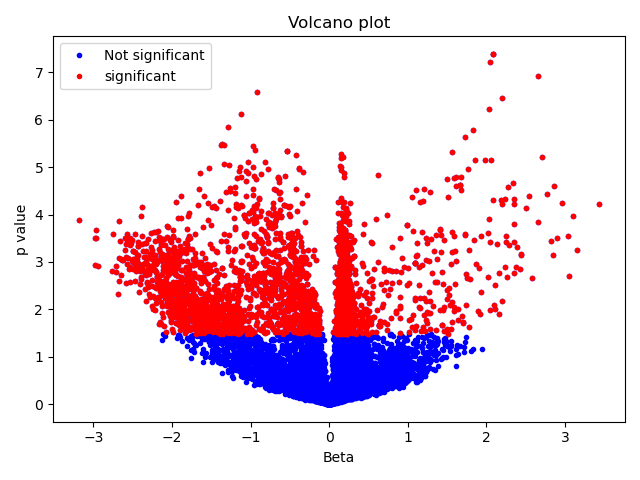
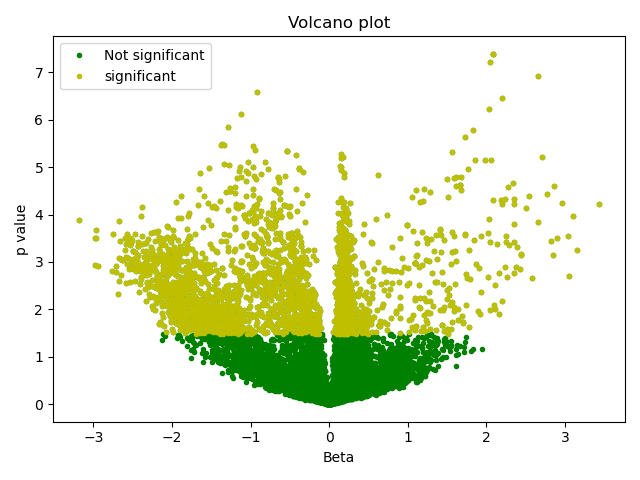
Week9

diff --git a/week9-homework/week9.py b/week9-homework/week9.py
@@ -152,8 +152,8 @@ print(f'overlap: {overlap/len(diff_stage)*100}')
 plt.clf()
 pval=np.asarray(pval)
 betas=np.asarray(betas)
-plt.plot(betas, -np.log10(pval), '.b', label='Not significant')
-plt.plot(betas[significant_idx], -np.log10(pval[significant_idx]), '.r', label='significant')
+plt.plot(betas, -np.log10(pval), '.g', label='Not significant')
+plt.plot(betas[significant_idx], -np.log10(pval[significant_idx]), '.y', label='significant')
 plt.title('Volcano plot')
 plt.xlabel('Beta')
 plt.ylabel('p value')

diff --git a/week9-homework/README.md b/week9-homework/README.md
@@ -1,0 +1,6 @@
+ # QBB2022 - Week-9 Homework Excercises
+ 
+ 2.2 If our data followed a normal distribution it would mean that any significant p-values we are seeing are just due to chance. Since our data clusters below this line, it suggests that we have many more low p-values than you would see by chance - meaning there is likely some correlation occurring.
+ 
+ 
+overlap: 90.99540581929556
